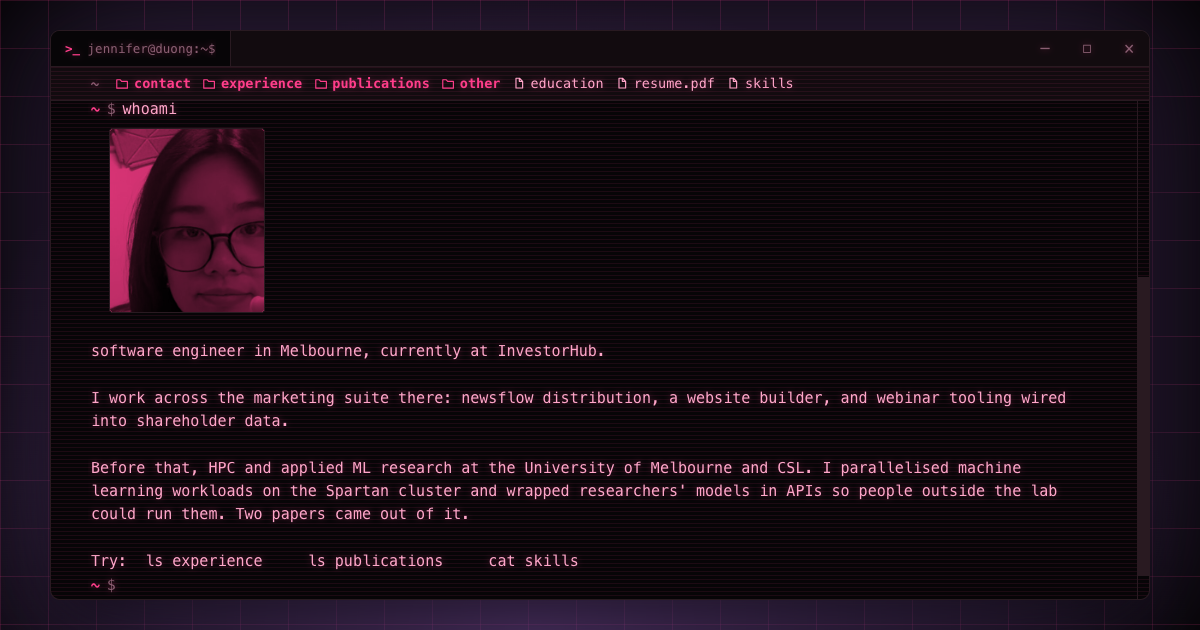
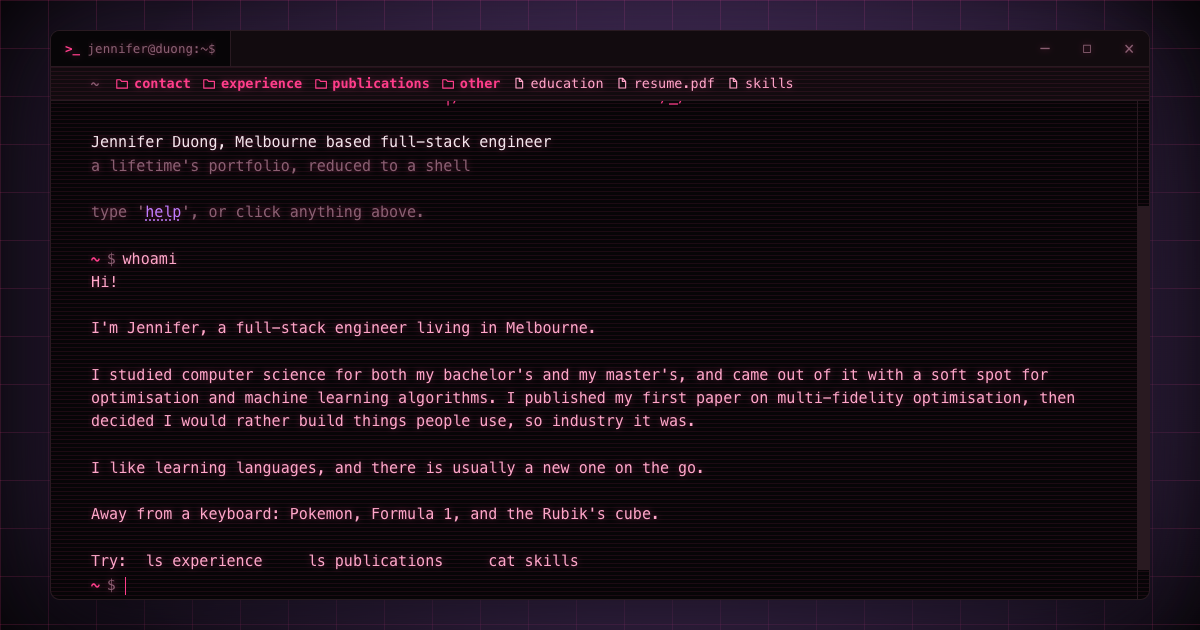
content: Jen's own introduction, and no photograph
whoami now opens with a hello and reads as her rather than as a summary written
about her: what she studied, the soft spot for optimisation and machine learning
that came out of it, the first paper, the decision to build things people use
instead, and Pokemon, Formula 1 and the Rubik's cube.

The portrait is gone, and so is everything that existed to serve it: the line
type, the component, the duotone CSS, and jen.jpg itself. Leaving the file in
public/ would have kept her face at a public URL with nothing linking to it.

The preview image showed that photo, so it is recaptured from the new intro. Its
alt text is updated to match, which is the sort of thing that quietly goes stale.

diff --git a/src/fs/tree.ts b/src/fs/tree.ts
@@ -9,16 +9,16 @@ import type { Dir } from './types'
 // words. `resume.pdf` keeps its extension because the extension is the point.
 // ─────────────────────────────────────────────────────────────────────────────
 
-/** Shown by `whoami`. Cropped to Jen alone: the original frame had someone
- *  else's face on a phone screen in it. */
-export const portrait = { src: '/jen.jpg', alt: 'Jennifer Duong' }
-
 /** Printed by `whoami`, so the intro is a command rather than a file. */
-export const intro = `software engineer in Melbourne, currently at InvestorHub.
+export const intro = `Hi!
 
-I work across the marketing suite there: newsflow distribution, a website builder, and webinar tooling wired into shareholder data.
+I'm Jennifer, a full-stack engineer living in Melbourne.
 
-Before that, HPC and applied ML research at the University of Melbourne and CSL. I parallelised machine learning workloads on the Spartan cluster and wrapped researchers' models in APIs so people outside the lab could run them. Two papers came out of it.
+I studied computer science for both my bachelor's and my master's, and came out of it with a soft spot for optimisation and machine learning algorithms. I published my first paper on multi-fidelity optimisation, then decided I would rather build things people use, so industry it was.
+
+I like learning languages, and there is usually a new one on the go.
+
+Away from a keyboard: Pokemon, Formula 1, and the Rubik's cube.
 
 Try:  ls experience     ls publications     cat skills`
 

diff --git a/src/styles/terminal.css b/src/styles/terminal.css
@@ -463,32 +463,6 @@ body {
   word-break: break-word;
 }
 
-/* A photograph, duotoned into the palette so it reads as part of the terminal
-   rather than a snapshot dropped onto it. The accent sits behind a greyscaled
-   image in multiply: dark areas stay dark, light areas take the theme colour,
-   so this follows the `colour` command like everything else. */
-.portrait {
-  width: clamp(108px, 21vw, 156px);
-  /* 2ch matches the indent of the prose it sits above. */
-  margin: 0.45em 0 0.25em 2ch;
-  background: var(--accent);
-  border: 1px solid var(--chrome-border);
-  border-radius: 4px;
-  /* Clips the image to the rounded corners. */
-  overflow: hidden;
-  line-height: 0;
-}
-
-.portrait-img {
-  display: block;
-  width: 100%;
-  height: auto;
-  /* Pulled down from full brightness so light areas read as tinted rather than
-     as a flat block of pure accent. */
-  filter: grayscale(1) contrast(1.06) brightness(0.9);
-  mix-blend-mode: multiply;
-}
-
 /* The welcome banner exists in two forms and exactly one is ever visible.
    The ASCII art is a fixed 67-column grid. It cannot reflow, only scale, and
    at phone width it scales down to illegible. So narrow screens get the same

diff --git a/src/commands/misc.ts b/src/commands/misc.ts
@@ -1,16 +1,12 @@
-import { intro, portrait } from '../fs/tree'
+import { intro } from '../fs/tree'
 import type { Command } from './types'
 import { error, ok, text } from './types'
 
 export const clear: Command = () => ({ lines: [], clear: true })
 
-/** The photo and intro both live in fs/tree.ts with the rest of the content. */
+/** The intro lives in fs/tree.ts with the rest of the content. */
 export const whoami: Command = () => ({
-  lines: [
-    { type: 'portrait', src: portrait.src, alt: portrait.alt },
-    text(''),
-    ...intro.split('\n').map((line) => text(line)),
-  ],
+  lines: intro.split('\n').map((line) => text(line)),
 })
 
 export const history: Command = (_args, ctx) =>

diff --git a/src/terminal/Line.tsx b/src/terminal/Line.tsx
@@ -1,5 +1,4 @@
 import { Banner } from './Banner'
-import { Portrait } from './Portrait'
 import type { Line as LineData } from '../commands/types'
 import { displayPath } from '../fs/resolve'
 
@@ -25,10 +24,6 @@ export function Line({ line, onRun }: Props) {
 
   if (line.type === 'banner') {
     return <Banner rows={line.rows} />
-  }
-
-  if (line.type === 'portrait') {
-    return <Portrait src={line.src} alt={line.alt} />
   }
 
   if (line.type === 'titlecard') {

diff --git a/src/commands/types.ts b/src/commands/types.ts
@@ -20,8 +20,6 @@ export type Line =
    * them can animate them as a single unit.
    */
   | { type: 'banner'; rows: string[] }
-  /** A real photograph, tinted to the palette by terminal.css. */
-  | { type: 'portrait'; src: string; alt: string }
   /** A file's title, framed and centred, with an optional second line. */
   | { type: 'titlecard'; title: string; subtitle?: string }
   /** Path names rendered as clickable buttons. */

diff --git a/index.html b/index.html
@@ -31,7 +31,7 @@
     <meta property="og:image:height" content="630" />
     <meta
       property="og:image:alt"
-      content="A terminal window in pink on black, showing Jennifer Duong's photo and introduction."
+      content="A terminal window in pink on black, showing Jennifer Duong's introduction."
     />
     <meta name="twitter:card" content="summary_large_image" />
   </head>
